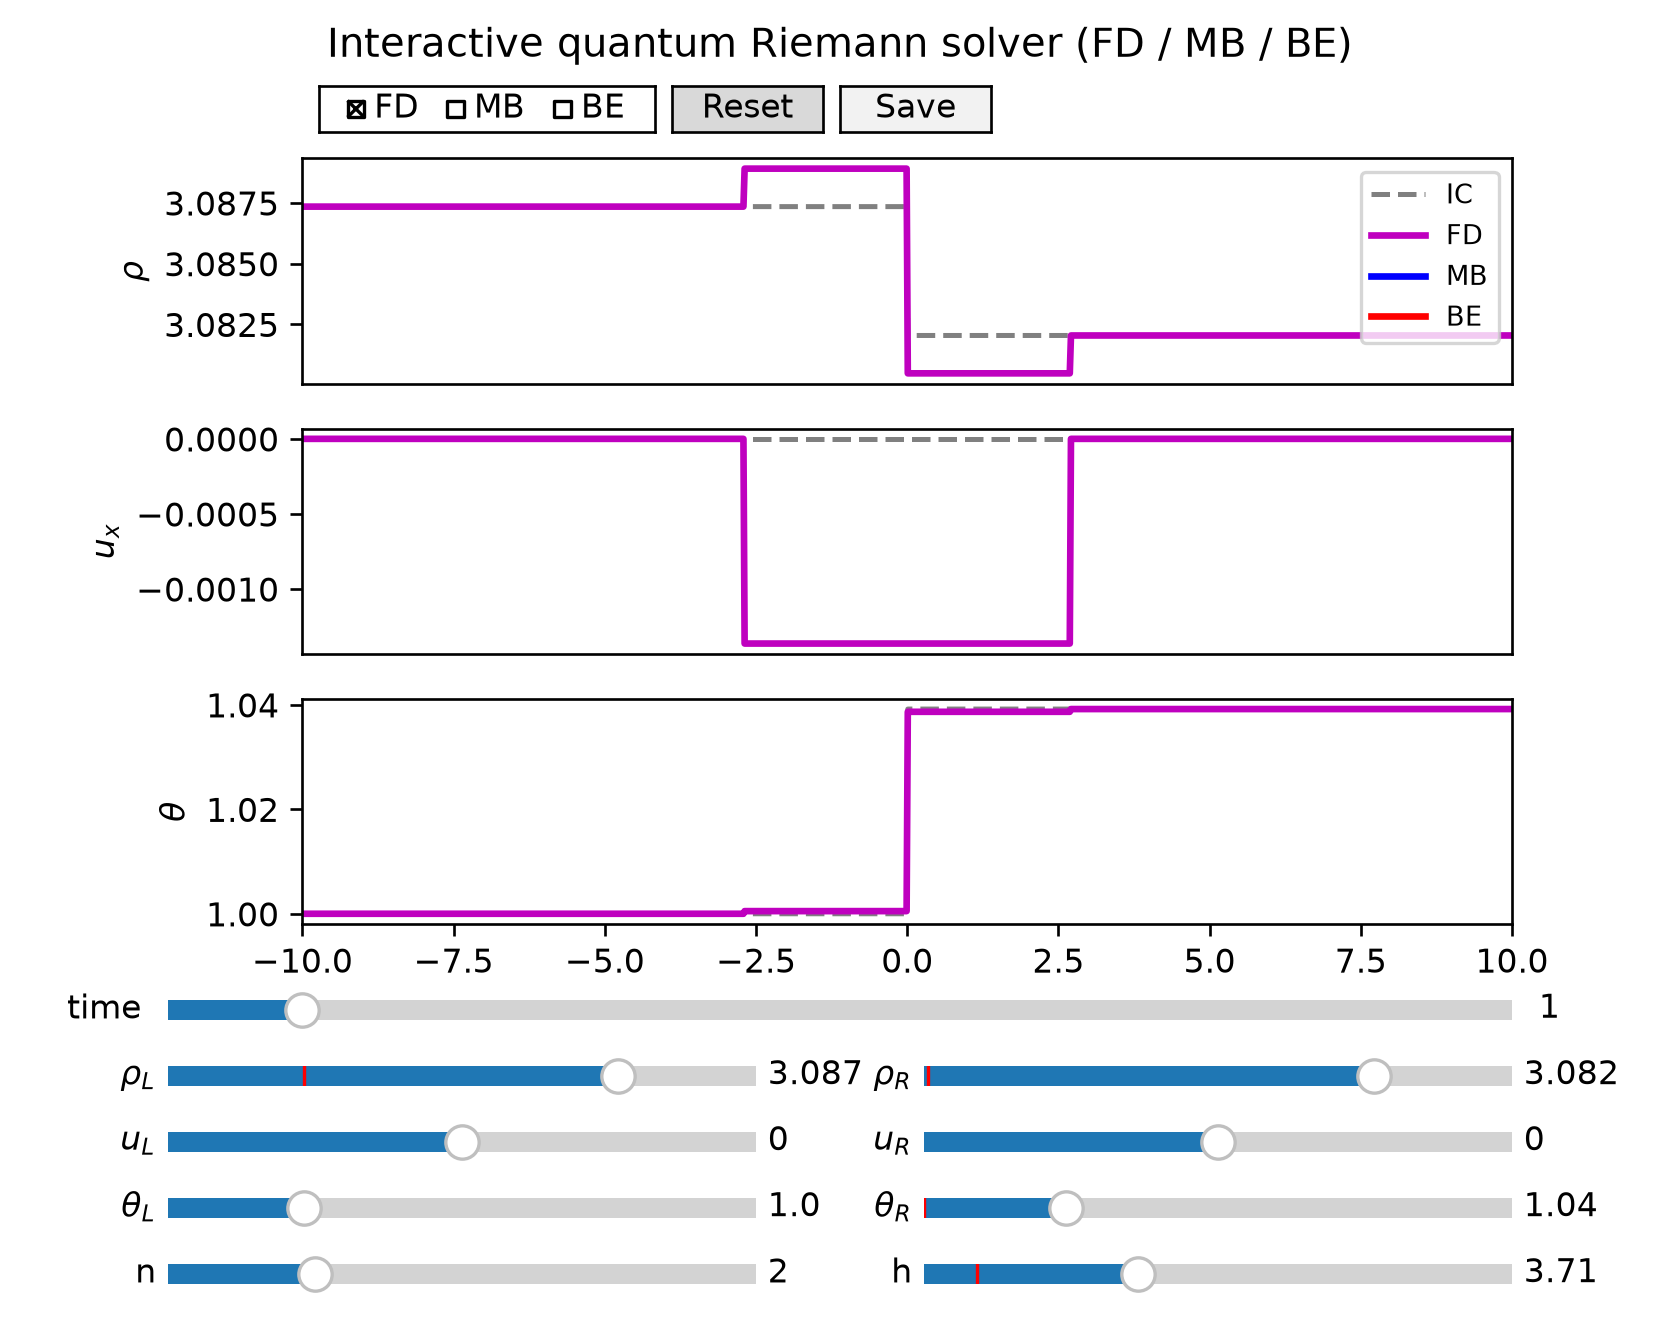
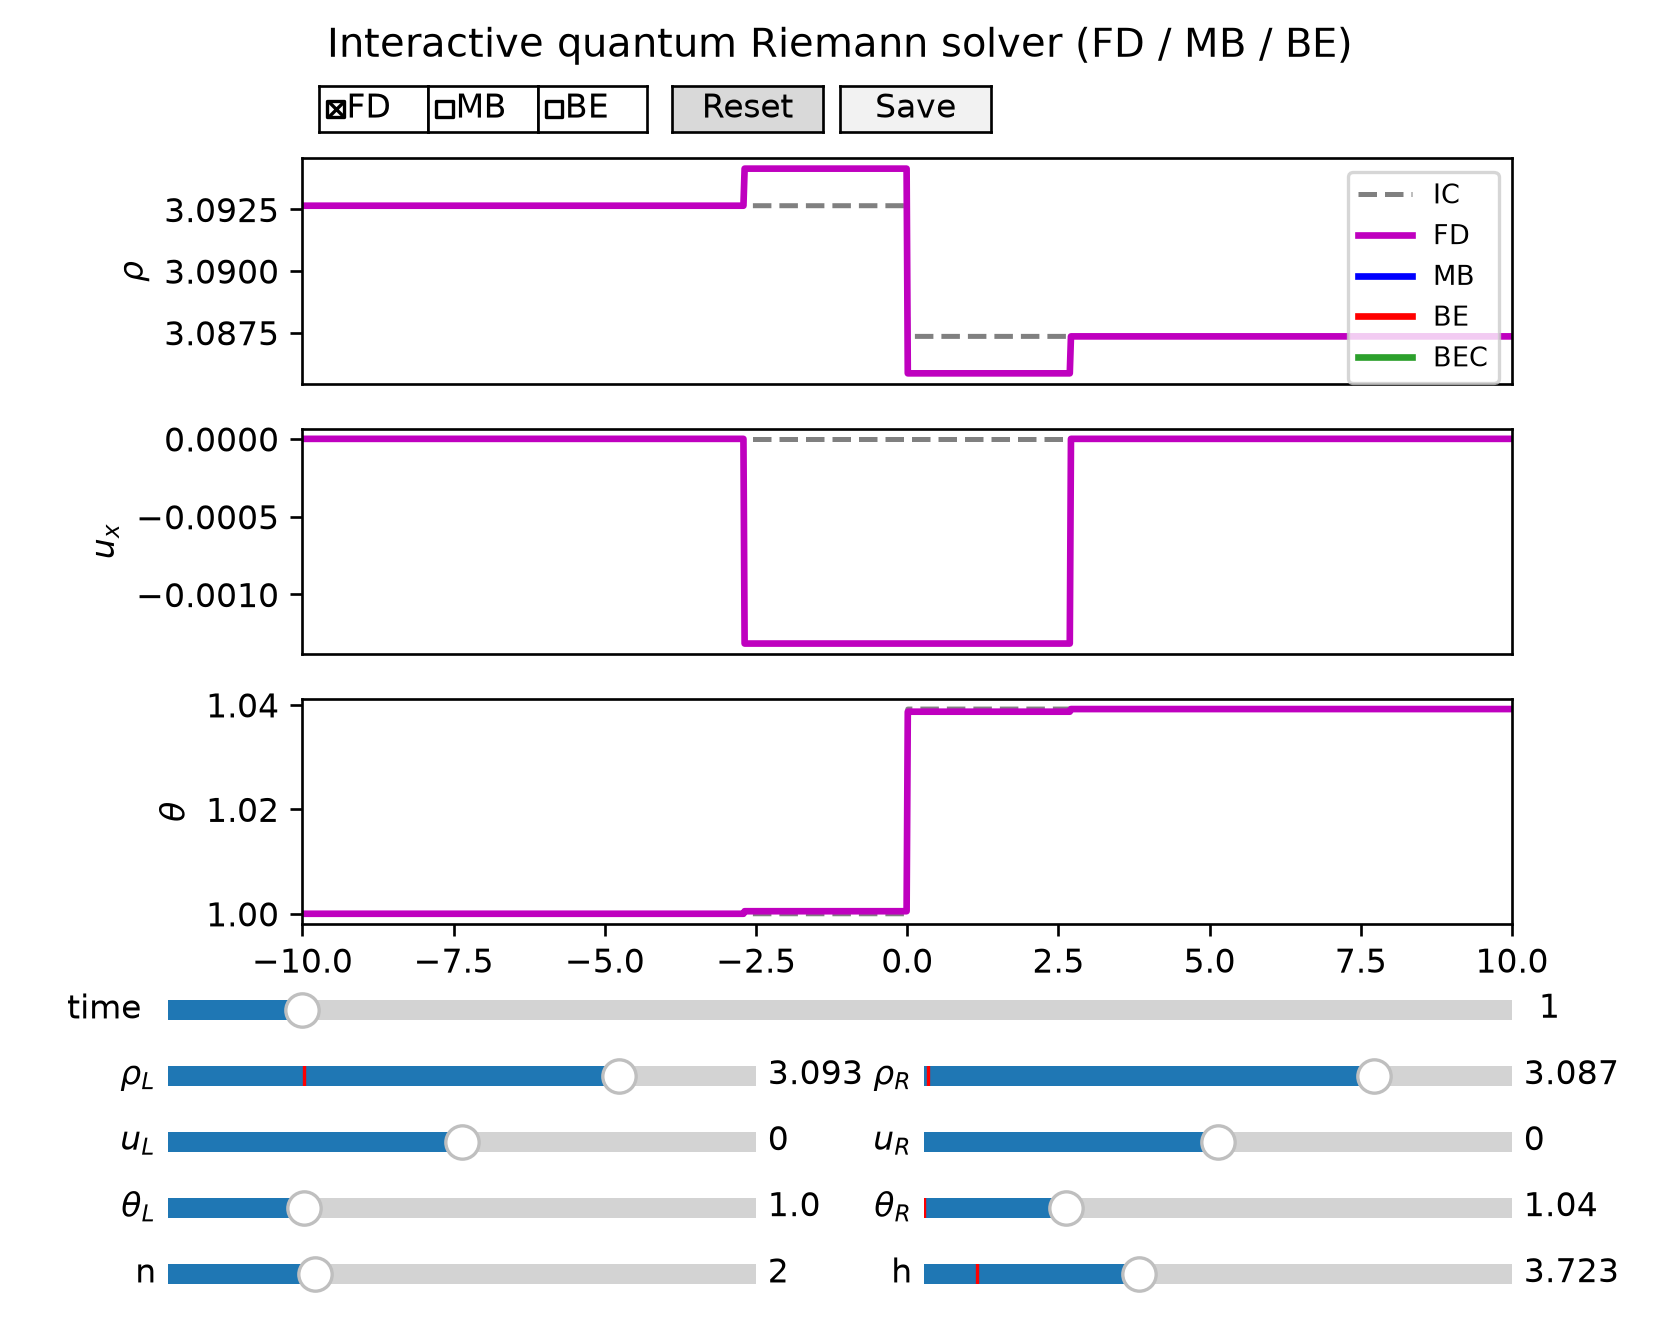
Introduced BEC detection in interactive quantum

diff --git a/src/ideal_gases/cli/interactive/quantum.py b/src/ideal_gases/cli/interactive/quantum.py
@@ -12,11 +12,14 @@ from numpy.typing import NDArray
 
 from ideal_gases.cli.config import QuantumState
 from ideal_gases.cli.interactive._widgets import (
+    BEC_COLOR,
     SAVE_DPI,
     autoscale_axes,
+    nan_split,
     piecewise_ic,
 )
 from ideal_gases.cli.plot import STATISTIC_COLORS, STATISTICS, _require_matplotlib
+from ideal_gases.equilibrium import is_bose_ceiling_z
 from ideal_gases.riemann import quantum_euler
 
 
@@ -78,6 +81,15 @@ def run_quantum_interactive(
                 0
             ],
         }
+
+    nan_y = np.full_like(x, np.nan)
+    bec_lines = {
+        "rho": ax_rho.plot(
+            x, nan_y, color=BEC_COLOR, linewidth=2, label="BEC", zorder=3
+        )[0],
+        "ux": ax_vx.plot(x, nan_y, color=BEC_COLOR, linewidth=2, zorder=3)[0],
+        "theta": ax_theta.plot(x, nan_y, color=BEC_COLOR, linewidth=2, zorder=3)[0],
+    }
 
     ax_rho.set_xticks([])
     ax_rho.set_xlim(x_min, x_max)
@@ -150,6 +162,7 @@ def run_quantum_interactive(
                     (
                         ic_line_rho,
                         *(solution_lines[stat]["rho"] for stat in STATISTICS),
+                        bec_lines["rho"],
                     ),
                 ),
                 (
@@ -157,6 +170,7 @@ def run_quantum_interactive(
                     (
                         ic_line_vx,
                         *(solution_lines[stat]["ux"] for stat in STATISTICS),
+                        bec_lines["ux"],
                     ),
                 ),
                 (
@@ -164,6 +178,7 @@ def run_quantum_interactive(
                     (
                         ic_line_theta,
                         *(solution_lines[stat]["theta"] for stat in STATISTICS),
+                        bec_lines["theta"],
                     ),
                 ),
             ],
@@ -204,6 +219,9 @@ def run_quantum_interactive(
         ic_line_theta.set_ydata(piecewise_ic(x, x0, theta_l_val, theta_r_val))
 
         active = active_statistics()
+        be_visible = "BE" in active
+        for line in bec_lines.values():
+            line.set_visible(be_visible)
         for stat in STATISTICS:
             visible = stat in active
             for line in solution_lines[stat].values():
@@ -225,9 +243,21 @@ def run_quantum_interactive(
                 x=x,
                 x0=x0,
             )
-            solution_lines[stat]["rho"].set_ydata(gas.rho)
-            solution_lines[stat]["ux"].set_ydata(gas.ux)
-            solution_lines[stat]["theta"].set_ydata(gas.t)
+            if stat == "BE":
+                mask = is_bose_ceiling_z(gas.z)
+                _, rho_bec = nan_split(gas.rho, mask)
+                _, ux_bec = nan_split(gas.ux, mask)
+                _, theta_bec = nan_split(gas.t, mask)
+                solution_lines[stat]["rho"].set_ydata(gas.rho)
+                solution_lines[stat]["ux"].set_ydata(gas.ux)
+                solution_lines[stat]["theta"].set_ydata(gas.t)
+                bec_lines["rho"].set_ydata(rho_bec)
+                bec_lines["ux"].set_ydata(ux_bec)
+                bec_lines["theta"].set_ydata(theta_bec)
+            else:
+                solution_lines[stat]["rho"].set_ydata(gas.rho)
+                solution_lines[stat]["ux"].set_ydata(gas.ux)
+                solution_lines[stat]["theta"].set_ydata(gas.t)
 
         scale_axes()
 

diff --git a/src/ideal_gases/equilibrium.py b/src/ideal_gases/equilibrium.py
@@ -19,9 +19,13 @@ from ideal_gases.polylog import polylog
 
 __all__ = [
     "G",
+    "bose_ceiling",
+    "bose_density_parameter",
     "equilibrium_moments",
     "find_fugacity",
     "find_moments",
+    "is_bose_ceiling_z",
+    "is_bose_condensed",
 ]
 
 VALID_ETA = frozenset({-1, 0, 1})
@@ -56,6 +60,43 @@ def G(n, z, eta: int = 1):
         return z if z.ndim else float(z)
     value = _polylog(n, eta * z) * eta
     return value
+
+
+def bose_ceiling(dim: float) -> float:
+    """Excited-gas Bose ceiling G_{D/2}(z_max) used by Newton clipping."""
+    return float(G(dim / 2.0, Z_BOSE_MAX, eta=1))
+
+
+def bose_density_parameter(
+    rho, T, dim: float, h: float, m: float = 1.0, k_B: float = 1.0
+):
+    """Excited-gas density parameter data = ρ h^D / (m (2π m k_B T)^{D/2})."""
+    rho_arr, t_arr = np.broadcast_arrays(
+        np.asarray(rho, dtype=float),
+        np.asarray(T, dtype=float),
+    )
+    data = rho_arr * h**dim / (m * (2.0 * np.pi * m * k_B * t_arr) ** (dim / 2.0))
+    if rho_arr.ndim == 0:
+        return float(data)
+    return data
+
+
+def is_bose_condensed(rho, T, dim: float, h: float, m: float = 1.0, k_B: float = 1.0):
+    """True where data exceeds G_{D/2}(z_max) (independent T, not reconstructed)."""
+    data = bose_density_parameter(rho, T, dim, h, m=m, k_B=k_B)
+    ceiling = bose_ceiling(dim)
+    if np.isscalar(data):
+        return bool(float(data) > ceiling)
+    return np.asarray(data, dtype=float) > ceiling
+
+
+def is_bose_ceiling_z(z):
+    """True where fugacity is at the Newton Bose clip Z_BOSE_MAX."""
+    z_arr = np.asarray(z, dtype=float)
+    mask = z_arr >= Z_BOSE_MAX
+    if z_arr.ndim == 0:
+        return bool(mask)
+    return mask
 
 
 def equilibrium_moments(

diff --git a/tests/test_equilibrium.py b/tests/test_equilibrium.py
@@ -10,9 +10,14 @@ import pytest
 
 from ideal_gases.equilibrium import (
     G,
+    Z_BOSE_MAX,
+    bose_ceiling,
+    bose_density_parameter,
     equilibrium_moments,
     find_fugacity,
     find_moments,
+    is_bose_ceiling_z,
+    is_bose_condensed,
 )
 
 
@@ -89,6 +94,32 @@ def test_broadcasting() -> None:
     assert z_v.shape == (2,)
     assert T_v.shape == (2,)
     assert p_v.shape == (2,)
+
+
+# -- Bose condensation ceiling ----------------------------------------------
+
+
+def test_hu_jin_bose_not_condensed_at_h_3_3() -> None:
+    assert is_bose_condensed(1.0, 1.0, dim=3, h=3.3) is False
+
+
+def test_bose_condensed_at_h_6() -> None:
+    assert is_bose_condensed(1.0, 1.0, dim=3, h=6.0) is True
+
+
+def test_is_bose_ceiling_z() -> None:
+    assert is_bose_ceiling_z(Z_BOSE_MAX) is True
+    assert is_bose_ceiling_z(0.99) is False
+    mask = is_bose_ceiling_z(np.array([0.99, Z_BOSE_MAX]))
+    np.testing.assert_array_equal(mask, np.array([False, True]))
+
+
+def test_bose_density_parameter_matches_newton_data() -> None:
+    rho, T, dim, h = 1.0, 1.0, 3.0, 3.3
+    data = bose_density_parameter(rho, T, dim, h)
+    expected = rho * h**dim / (2.0 * np.pi * T) ** (dim / 2.0)
+    assert data == pytest.approx(expected)
+    assert data < bose_ceiling(dim)
 
 
 # -- G_n versus mpmath.polylog -----------------------------------------------

diff --git a/tests/test_cli_interactive.py b/tests/test_cli_interactive.py
@@ -12,6 +12,7 @@ import matplotlib
 
 matplotlib.use("Agg")
 
+import numpy as np
 import pytest
 
 from ideal_gases.cli import main
@@ -145,3 +146,31 @@ def test_interactive_missing_matplotlib_reports_install_hint() -> None:
     ):
         exit_code = main(["interactive", "classical", "--nx", "21"])
     assert exit_code == 1
+
+
+def test_nan_split_breaks_polyline() -> None:
+    from ideal_gases.cli.interactive._widgets import nan_split
+
+    y = np.array([1.0, 2.0, 3.0, 4.0])
+    mask = np.array([False, True, True, False])
+    y_keep, y_mask = nan_split(y, mask)
+    np.testing.assert_allclose(
+        y_keep, np.array([1.0, np.nan, np.nan, 4.0]), equal_nan=True
+    )
+    np.testing.assert_allclose(
+        y_mask, np.array([np.nan, 2.0, 3.0, np.nan]), equal_nan=True
+    )
+
+
+def test_ylim_from_lines_skips_all_nan() -> None:
+    from matplotlib.lines import Line2D
+
+    from ideal_gases.cli.interactive._widgets import ylim_from_lines
+
+    finite = Line2D([0, 1], [1.0, 3.0])
+    empty = Line2D([0, 1], [np.nan, np.nan])
+    limits = ylim_from_lines(finite, empty)
+    assert limits is not None
+    low, high = limits
+    assert low < 1.0
+    assert high > 3.0

diff --git a/src/ideal_gases/cli/interactive/_widgets.py b/src/ideal_gases/cli/interactive/_widgets.py
@@ -15,6 +15,14 @@ if TYPE_CHECKING:
     from matplotlib.lines import Line2D
 
 SAVE_DPI = 240
+BEC_COLOR = "tab:green"
+
+
+def nan_split(y: np.ndarray, mask: np.ndarray) -> tuple[np.ndarray, np.ndarray]:
+    """Split a profile into (~mask, mask) using NaNs to break the polyline."""
+    y_arr = np.asarray(y, dtype=np.float64)
+    mask_arr = np.asarray(mask, dtype=bool)
+    return np.where(~mask_arr, y_arr, np.nan), np.where(mask_arr, y_arr, np.nan)
 
 
 def ylim_from_lines(*lines: Line2D) -> tuple[float, float] | None:
@@ -24,8 +32,11 @@ def ylim_from_lines(*lines: Line2D) -> tuple[float, float] | None:
         if not line.get_visible():
             continue
         y = np.asarray(line.get_ydata(), dtype=np.float64)
-        ymin = min(ymin, float(np.min(y)))
-        ymax = max(ymax, float(np.max(y)))
+        finite = y[np.isfinite(y)]
+        if finite.size == 0:
+            continue
+        ymin = min(ymin, float(np.min(finite)))
+        ymax = max(ymax, float(np.max(finite)))
     if not np.isfinite(ymin) or not np.isfinite(ymax):
         return None
     if ymax <= ymin:
